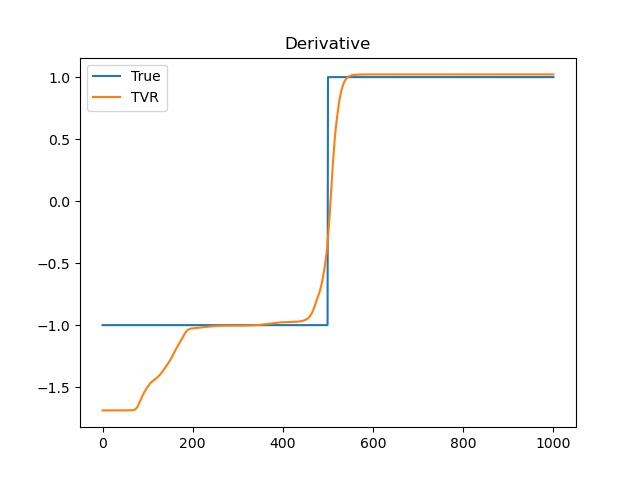
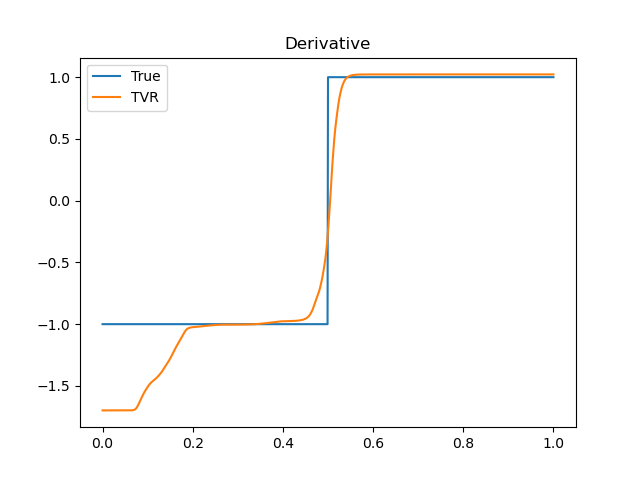
fix data-data[0] with data[1:]-data[0], add x axis for derivative figure, and other minor adjustments

diff --git a/python/diff_tvr.py b/python/diff_tvr.py
@@ -114,8 +114,7 @@ class DiffTVR:
             np.array: Vector of length N+1
         """
 
-        return (self.a_mat_t.matvec(self.a_mat.matvec(deriv_curr)) -
-                self.a_mat_t.matvec(data - data[0]) + ln_mat @ deriv_curr)
+        return self.a_mat_t.matvec(self.a_mat.matvec(deriv_curr)) - self.a_mat_t.matvec(data) + ln_mat @ deriv_curr
 
     def make_hn_mat(self, ln_mat: np.array) -> LinearOperator:
         """Matrix in linear problem
@@ -166,7 +165,7 @@ class DiffTVR:
         """Get derivative via TVR over optimization steps
 
         Args:
-            data (np.array): Data of size N
+            data (np.array): Data of size N+1
             deriv_guess (np.array): Guess for derivative of size N+1
             alpha (float): Regularization parameter
             no_opt_steps (int): No. opt steps to run
@@ -177,11 +176,11 @@ class DiffTVR:
             Tuple[np.array,np.array]: First is the final derivative of size N+1,
             second is the stored derivatives if return_progress=True of size no_opt_steps+1 x N+1, else [].
         """
-
+        data = data[1:] - data[0]
         deriv_curr = deriv_guess
         deriv_st = []
         for opt_step in range(no_opt_steps):
-            update = self.get_deriv_tvr_update(data=data, deriv_curr=deriv_curr, alpha=alpha)
+            update = self.get_deriv_tvr_update(data, deriv_curr, alpha)
             deriv_curr += update
             if return_progress:
                 if opt_step % return_interval == 0:

diff --git a/python/example_abs.py b/python/example_abs.py
@@ -8,13 +8,18 @@ if __name__ == "__main__":
     start = time.time()
 
     # Data
+    def func(x):
+        return abs(x - 0.5)
+
+    def deriv_func(x):
+        return np.where(x < 0.5, -1, 1)
+
     n = 1000
-    end = 1
-    x_coords = np.linspace(0, end, n+1)
-    data = abs(x_coords - 0.5)
+    x_coords = np.linspace(0, 1, n+1)
+    data = func(x_coords)
 
     # True derivative
-    deriv_true = np.where(x_coords < 0.5, -1, 1)
+    deriv_true = deriv_func(x_coords)
 
     # Add noise
     data_noisy = data + np.random.normal(0, 0.05, n+1)
@@ -30,7 +35,7 @@ if __name__ == "__main__":
     dx = np.diff(x_coords)
     diff_tvr = DiffTVR(n, dx, maxiter=None)
     deriv, progress = diff_tvr.get_deriv_tvr(
-        data=data_noisy[:-1],
+        data=data_noisy,
         deriv_guess=np.ones(n + 1),
         alpha=0.2,
         no_opt_steps=100,
@@ -38,8 +43,8 @@ if __name__ == "__main__":
 
     # Plot TVR derivative
     fig2 = plt.figure()
-    plt.plot(deriv_true)
-    plt.plot(deriv)
+    plt.plot(x_coords, deriv_true)
+    plt.plot(x_coords, deriv)
     plt.title("Derivative")
     plt.legend(["True", "TVR"])
 
